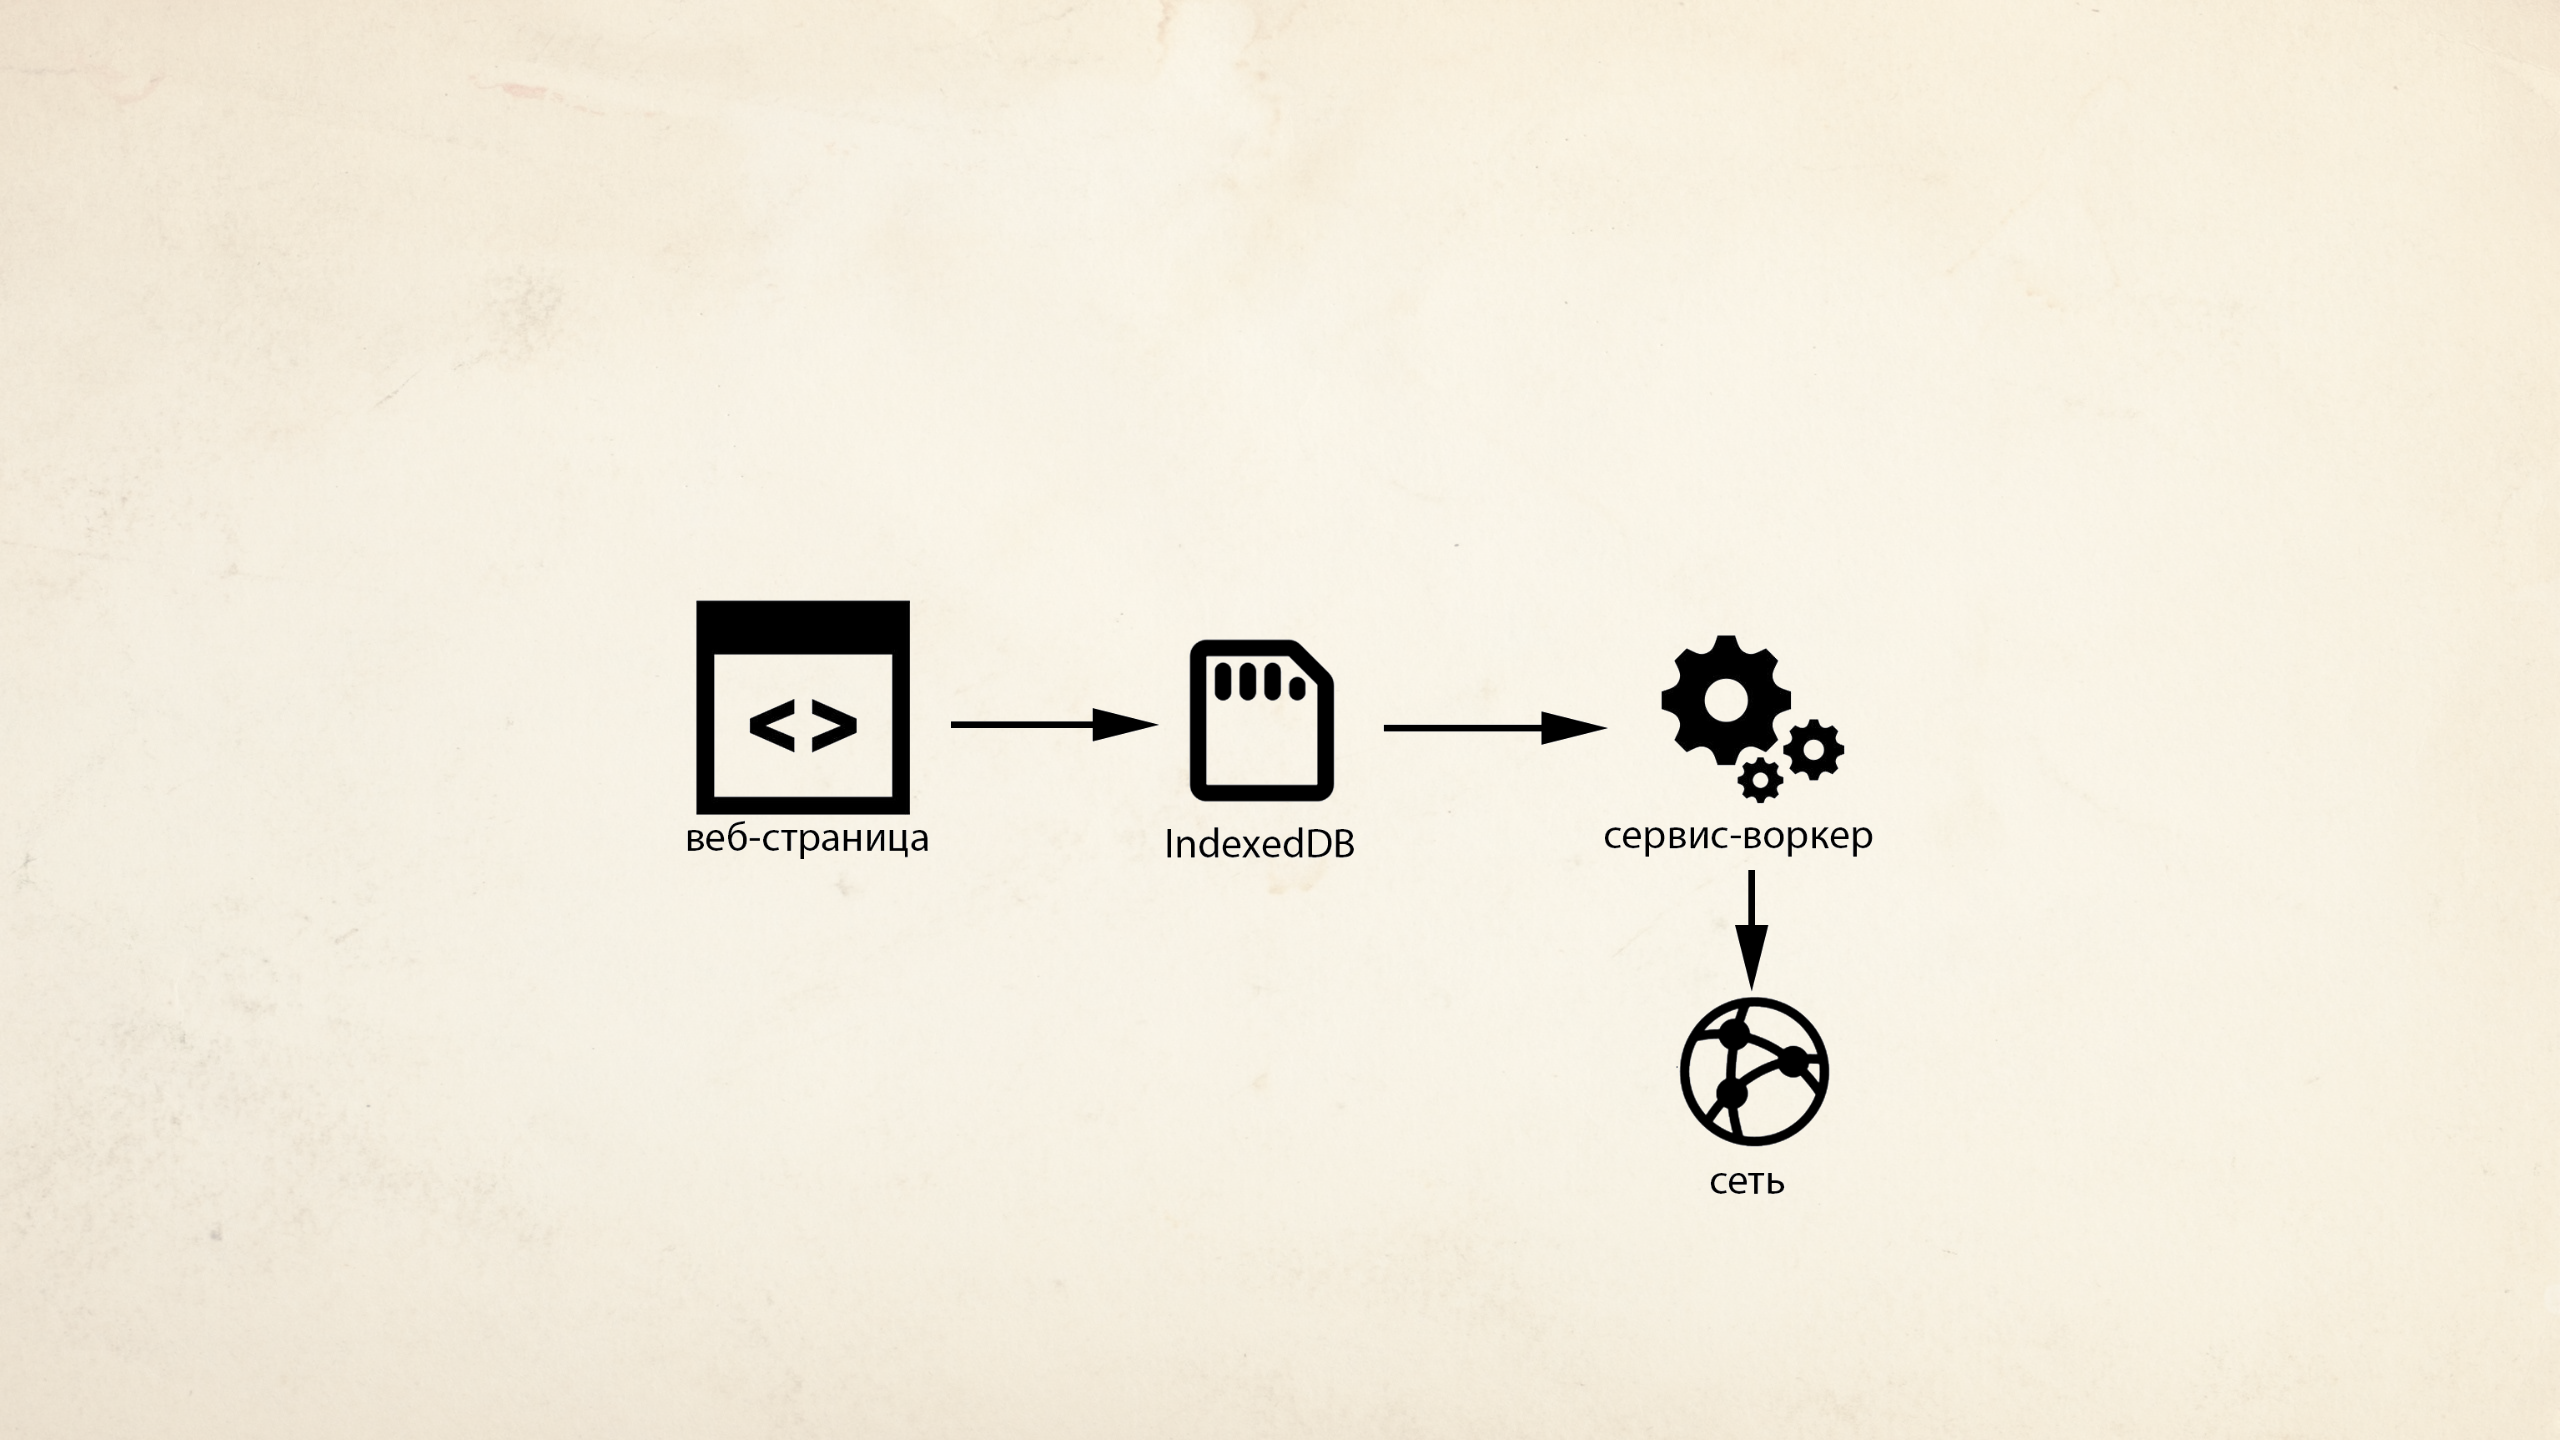
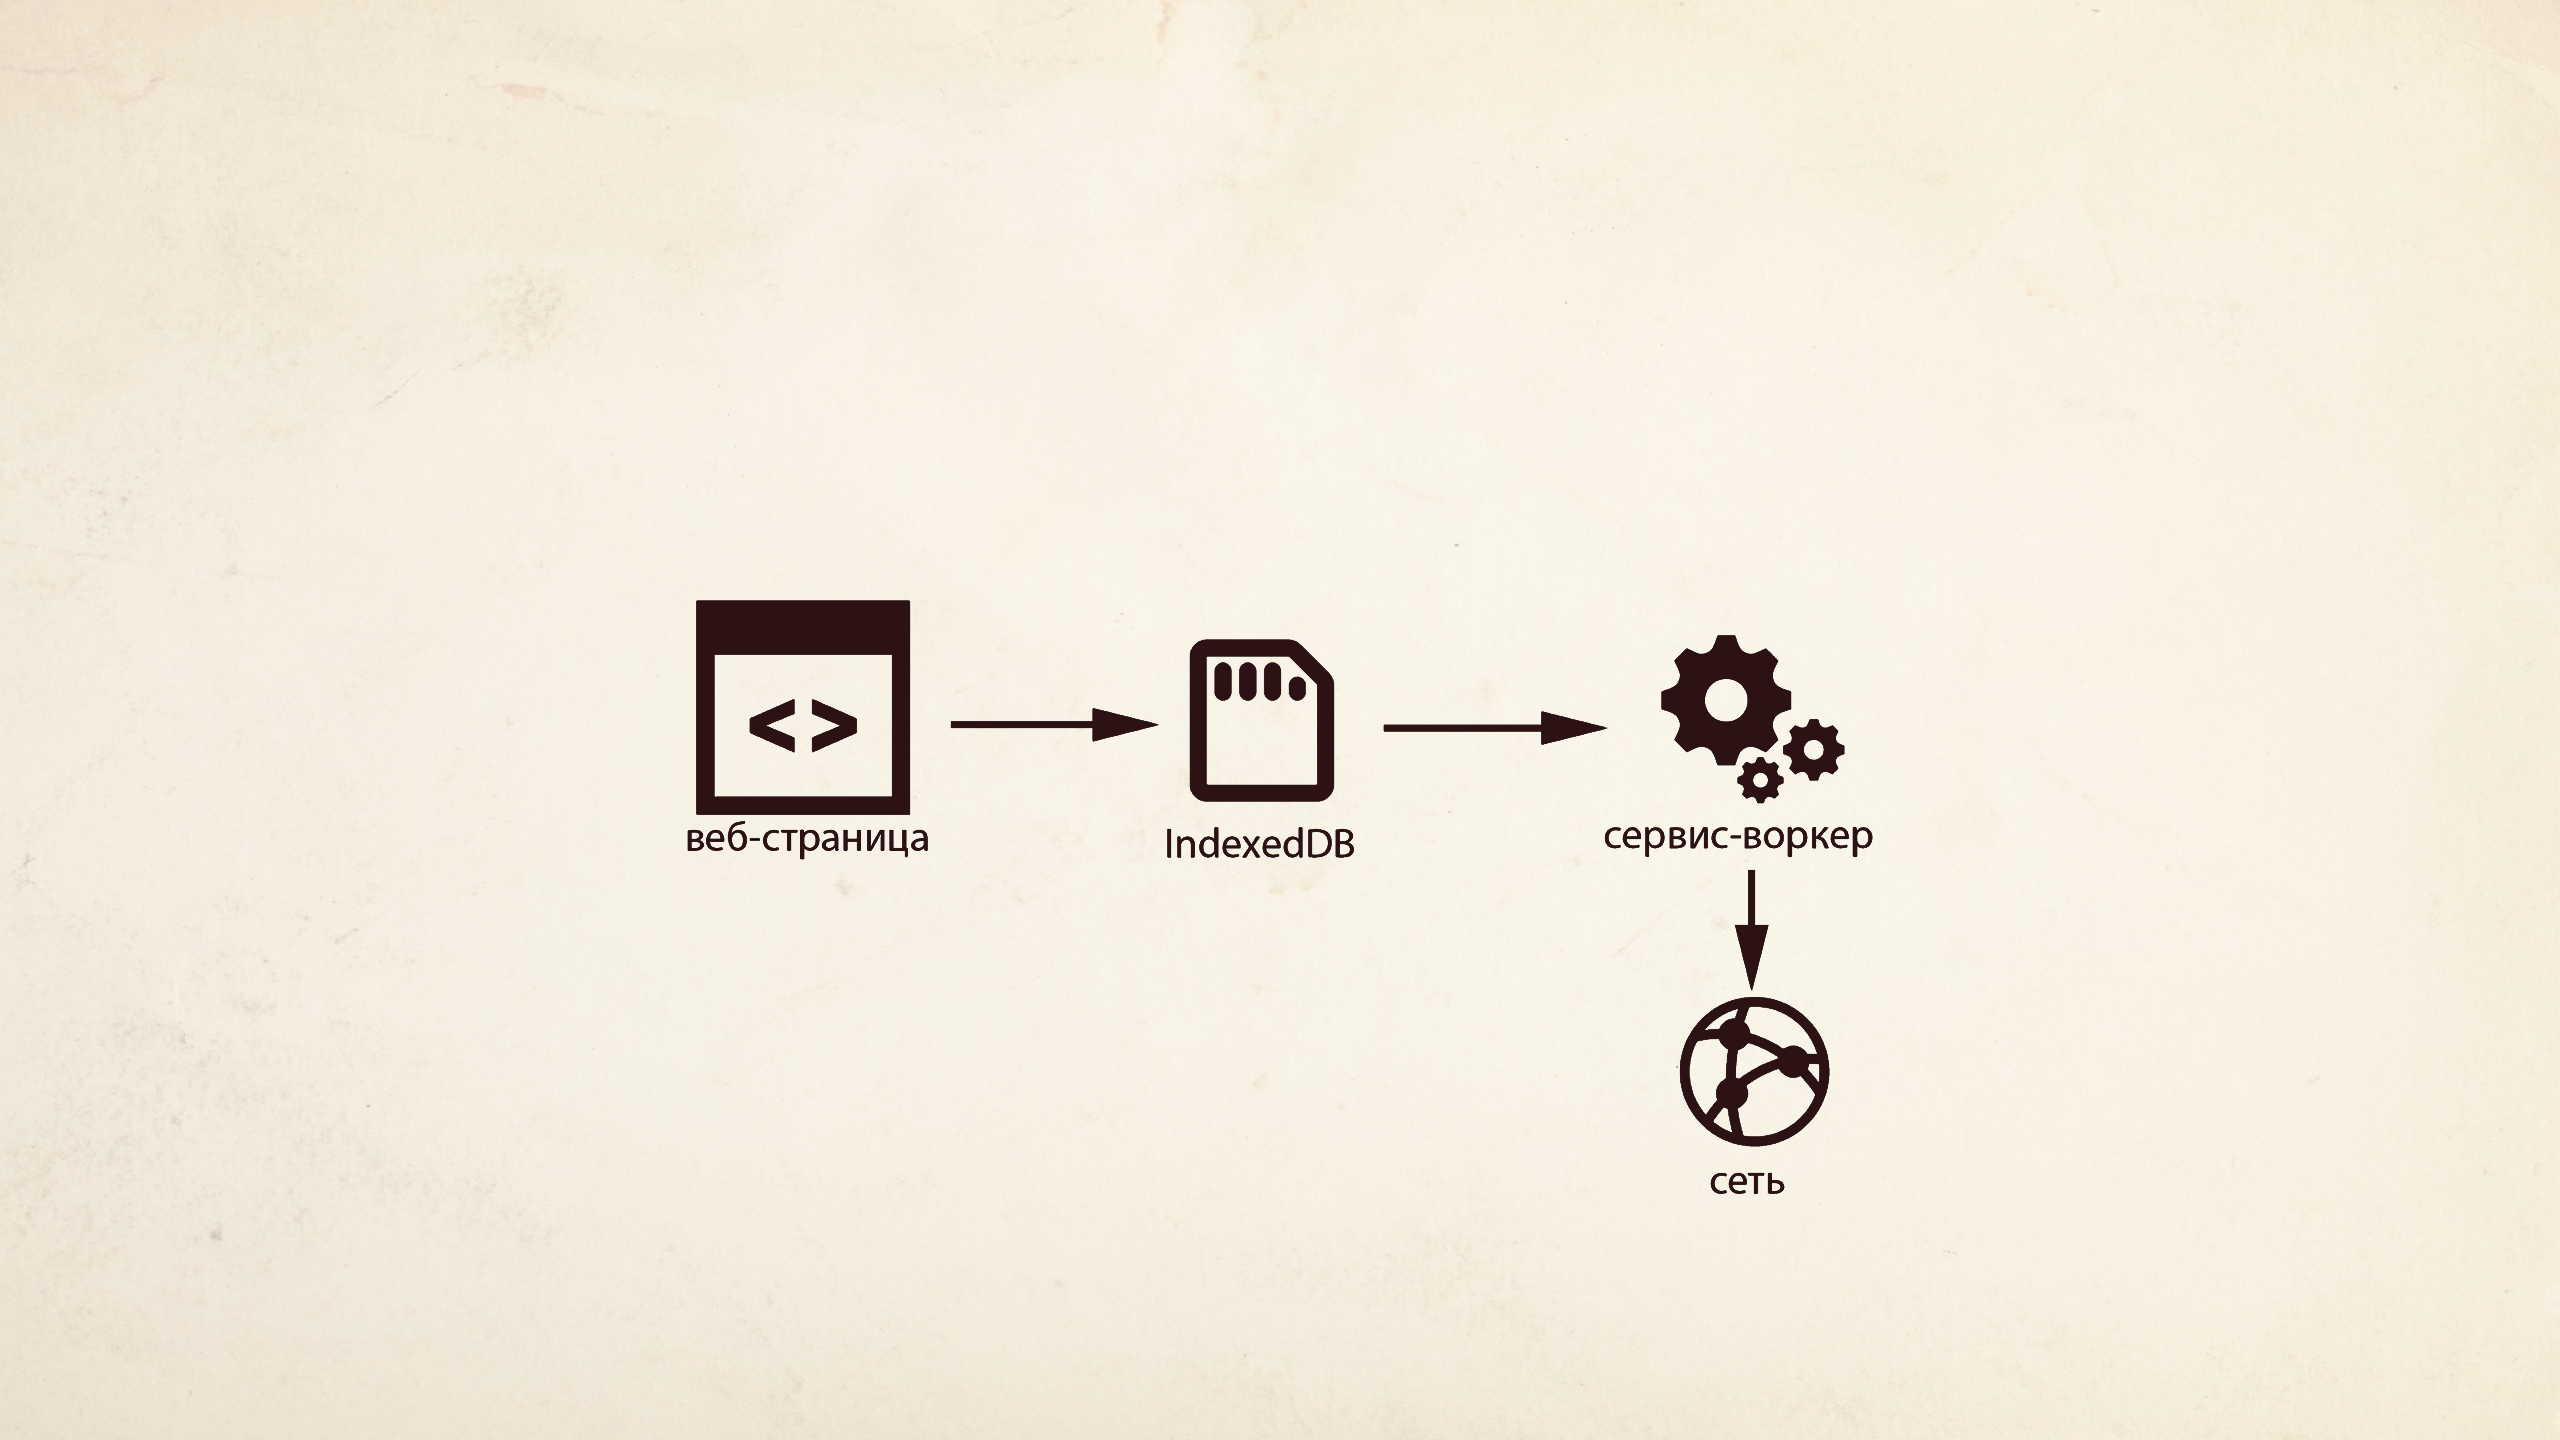
Updated slides

Changed region(s): [[0.25, 0.4062, 0.625, 0.5938], [0.625, 0.4375, 0.75, 0.5938], [0.6562, 0.625, 0.7188, 0.8438]]

diff --git a/index.html b/index.html
@@ -17,6 +17,14 @@
             background-image: url(./pictures/background.png);
         }
 
+        .slide h2 {
+            color:rgba(44, 18, 18, .8);
+        }
+
+        .slide {
+            color:rgba(44, 18, 18, .8);
+        }
+
         .slide .shout-less {
             font-size: 80px;
         }
@@ -497,15 +505,15 @@
     </section>
 
     <section class="slide">
+        <h2>sessionStorage</h2>
+        <p>Хранит ~5 МБ пар ключ-значение на время жизни сессии.</p>
+    </section>
+
+    <section class="slide">
         <h2>localStorage</h2>
         <p>Хранит ~5 МБ* пар ключ-значение неограниченное** время.</p>
         <p class="next">*Зависит от браузера. Некоторые позволяют увеличить это хранилище.</p>
         <p class="next">**Хранилище может очищаться при переполнении. Safari чистит раз в 7 дней.</p>
-    </section>
-
-    <section class="slide">
-        <h2>sessionStorage</h2>
-        <p>Хранит ~5 МБ пар ключ-значение на время жизни сессии.</p>
     </section>
 
     <section class="slide">
@@ -562,6 +570,41 @@
         </figure>
     </section>
 
+    <section class="slide">
+        <h2>Оперативная память устройства</h2>
+        <pre>
+            <code>navigator.deviceMemory</code>
+        </pre>
+        <ul>
+            <li class="next">
+                <p>Возвращает значения в ГБ</p>
+            </li>
+            <li class="next">
+                <p>
+                    Значение приблизительное: <br>
+                    <span class="next tabulation">Реальное значение округляется до ближайшей степени двойки </span><br>
+                    <span class="next tabulation">Потом результат делится на 1024 </span><br>
+                    <span class="next tabulation">Значение от 0.25 до 8 </span><br>
+                </p>
+            </li>
+        </ul>
+        <style>
+            .tabulation {
+                margin-left: 30px;
+            }
+        </style>
+    </section>
+
+    <section class="slide">
+        <h2>Рекомендация</h2>
+        <blockquote>
+            <p>Команде нужно было решить, как избежать использование сервис-воркера <br>
+                на "слабых" устройствах. Так как нет однозначного определения "слабого",<br>
+                было принято считать "слабыми" те, у кого &lt; 2 ГБ.</p>
+        </blockquote>
+        <figcaption><a href="https://web.dev/google-search-sw/">SW для Google search</a></figcaption>
+    </section>
+
     <section class="slide clear">
         <figure>
             <img class="cover" src="pictures/Дельфин.jpg" alt="">
@@ -610,7 +653,7 @@
     </section>
 
     <section class="slide clear">
-        <h2 class="shout shout-less shrink">Thank you!</h2>
+        <h2 class="shout shout-less shrink">Спасибо!</h2>
     </section>
 
     <div class="progress"></div>
